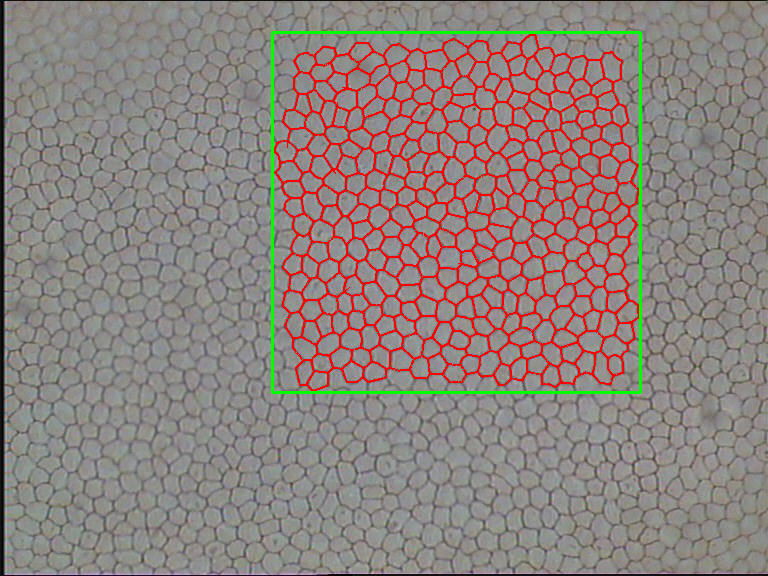
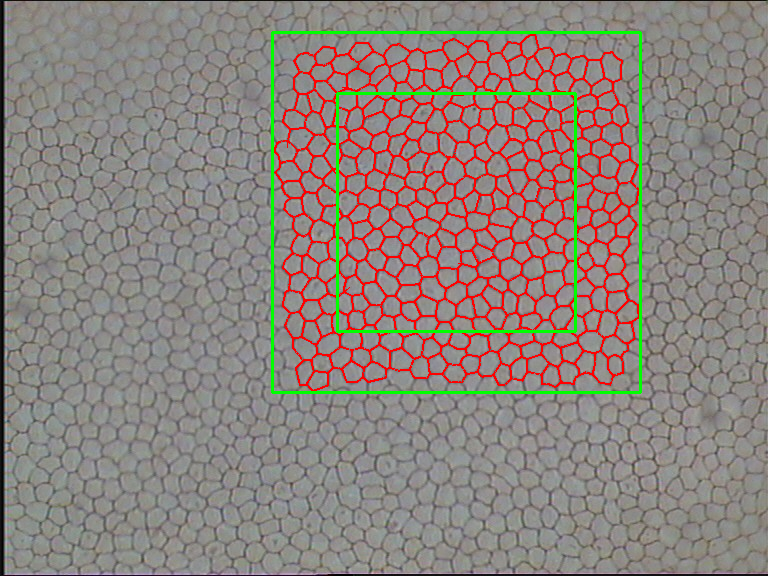
network implemented

Changed region(s): [[0.4375, 0.1562, 0.75, 0.5938]]

diff --git a/image_layer.py b/image_layer.py
@@ -1,54 +1,238 @@
 import cv2
 import os
 import numpy as np
-
-filepath = "C:\\Users\\seoir\\git\\replicating_old_papers\\cell_data"
-
-n = 5
-
-file_orig = filepath+"\\Original\\"+str(n)+".jpg"
-label = filepath + "\\Manual\\"+str(n)+"s.jpg"
-#print(os.listdir(filepath))
-
-img = cv2.imread(file_orig)
-img_label = cv2.imread(label,cv2.IMREAD_GRAYSCALE)
-
-# Draw in the labels
-# note that the label are where it is white (255), but there is some noise
-# where the mask is value 1, should be removed prior to training
-img[img_label == 255] = (0,0,255)
-window_name = 'demo'
+from torch import nn
+import torch
+from matplotlib import pyplot as plt
+from tqdm import tqdm
 
 
-# Find the outer extents
-height, width = img_label.shape
-min_x, min_y = width, height
-max_x = max_y = 0
+def extract_two_sub_images(filepath : str, image_number : int, display_images : bool, n_image : int, n_label : int):
+    """extracts two subimages from the given image number. Returns both the label and the image
 
-cnts, _ = cv2.findContours(img_label, cv2.RETR_TREE, cv2.CHAIN_APPROX_NONE)
-for cnt in cnts:
-    peri = cv2.arcLength(cnt, True)
-    approx = cv2.approxPolyDP(cnt, 0.02*peri, True)
-    x, y, w, h = cv2.boundingRect(approx)
-    min_x = min(min_x,x)
-    min_y = min(min_y,y)
-    max_x = max(max_x,x+w)
-    max_y = max(max_y,y+h)
+    Parameters
+    ----------
+    filepath : str
+        the location of the folders containing the masks and the images
+    image_number : int
+        the number (1-30) of the file to be opened
+    display_images : bool
+        whether to print the images and their associated large image
+    Returns
+    -------
+    (img_1, label_1), (img_2, label_2) : all numpy.array
+        The image (array format) and manual label (array format) in grayscale for two sub images
+        the label arrays have a size of 67x67. The input arrays are 97x97 as the network structure
+        loses the outer pixel dimensions  
+    img_g : numpy.array
+        The original image in grayscale, with the chosen rechtangles marked
+    """
 
-cv2.rectangle(img, (min_x, min_y), (max_x, max_y), (0, 255, 0), 2)
+    file_orig = filepath+"\\Original\\"+str(image_number)+".jpg"
+    label = filepath + "\\Manual\\"+str(image_number)+"s.jpg"
+    #print(os.listdir(filepath))
+
+    # note - we will train on a gray image!
+    img = cv2.imread(file_orig)
+    img_g = cv2.imread(file_orig,cv2.IMREAD_GRAYSCALE)
+    img_label = cv2.imread(label,cv2.IMREAD_GRAYSCALE)
+
+    # Draw in the labels
+    # note that the label are where it is white (255), but there is some noise
+    # where the mask is value 1, should be removed prior to training
+    #img[img_label == 255] = (0,0,255)
+    window_name = 'demo'
 
 
+    # Find the outer extents
+    height, width = img_label.shape
+    min_x, min_y = width, height
+    max_x = max_y = 0
+
+    cnts, _ = cv2.findContours(img_label, cv2.RETR_TREE, cv2.CHAIN_APPROX_NONE)
+    for cnt in cnts:
+        peri = cv2.arcLength(cnt, True)
+        approx = cv2.approxPolyDP(cnt, 0.02*peri, True)
+        x, y, w, h = cv2.boundingRect(approx)
+        min_x = min(min_x,x)
+        min_y = min(min_y,y)
+        max_x = max(max_x,x+w)
+        max_y = max(max_y,y+h)
+
+    cv2.rectangle(img, (min_x, min_y), (max_x, max_y), (0, 255, 0), 2)
+
+    # paper uses 239x239px images cropped to 67x67. However, the input is 97x97
+    n_sub = n_image
+    n_lab = n_label
+
+    offset = 55 #px from image edge
+
+    mid1 = (min_x + offset, (min_y+max_y)//2)
+    mid2 = (max_x - offset, (min_y+max_y)//2)
+    # we take two sub images at opposite sides of the labelled area    
+    # we copy here to avoid redrawing a rectangle on the top
+    img_cropped_1 = img_g[(mid1[1] - (n_sub-1)//2) : (mid1[1] + (n_sub-1)//2)+1, (mid1[0] - (n_sub-1)//2) : (mid1[0] + (n_sub-1)//2)+1].copy()
+    img_cropped_2 = img_g[(mid2[1] - (n_sub-1)//2) : (mid2[1] + (n_sub-1)//2)+1, (mid2[0] - (n_sub-1)//2) : (mid2[0] + (n_sub-1)//2)+1].copy()
+
+    label_cropped_1 = img_label[(mid1[1] - (n_lab-1)//2) : (mid1[1] + (n_lab-1)//2)+1, (mid1[0] - (n_lab-1)//2) : (mid1[0] + (n_lab-1)//2)+1].copy()
+    label_cropped_2 = img_label[(mid2[1] - (n_lab-1)//2) : (mid2[1] + (n_lab-1)//2)+1, (mid2[0] - (n_lab-1)//2) : (mid2[0] + (n_lab-1)//2)+1].copy()
+
+    # so we don't get squares on our output image
+    img_g_out = img_g.copy()
+    #draw the rectangles marking the image on the grayscale one
+    cv2.rectangle(img_g,((mid1[0] - (n_lab-1)//2) , (mid1[1] - (n_lab-1)//2) ) ,((mid1[0] + (n_lab-1)//2)+1, (mid1[1] + (n_lab-1)//2)+1),(0, 255, 0), 2)
+    #cv2.rectangle(img_label,((mid1[0] - (n_lab-1)//2) , (mid1[1] - (n_lab-1)//2) ) ,((mid1[0] + (n_lab-1)//2)+1, (mid1[1] + (n_lab-1)//2)+1),(0, 255, 0), 2)
+    cv2.rectangle(img_g,((mid2[0] - (n_lab-1)//2) , (mid2[1] - (n_lab-1)//2) ) ,((mid2[0] + (n_lab-1)//2)+1, (mid2[1] + (n_lab-1)//2)+1),(0, 255, 0), 2)
+    #cv2.rectangle(img_label,((mid2[0] - (n_lab-1)//2) , (mid2[1] - (n_lab-1)//2) ) ,((mid2[0] + (n_lab-1)//2)+1, (mid2[1] + (n_lab-1)//2)+1),(0, 255, 0), 2)
+    cv2.rectangle(img_g,(min_x,min_y), (max_x, max_y),(0, 255, 0), 2)
+    img_g[img_label == 255] = 255
+    if display_images:
+        cv2.imshow("sub_image_1",img_cropped_1)
+        cv2.imshow("sub_label_1",label_cropped_1)
+        cv2.imshow("sub_image_2",img_cropped_2)
+        cv2.imshow("sub_label_2",label_cropped_2)
+        cv2.imshow("img",img_g)
+        #cv2.imshow("label",img_label)
+        #cv2.imwrite("images\\overlay_two_crop" + str(n) + ".png",img_g)        
+        cv2.waitKey(0)
+
+    return (img_cropped_1, label_cropped_1), (img_cropped_2, label_cropped_2), img_g_out
+
+def normalise_image(img):
+    """normalise the input image to the range [-1:1]"""
+    img_out = (img - 128*np.ones(img.shape))*(1/128.0)
+    return img_out
+def normalise_label(img):
+    """normalise the label to all zeros or ones"""
+    img_out = np.zeros(img.shape)
+    img_out[img == 255] = 1
+    return img_out
 
 
+class Network(nn.Module):
 
-cv2.imshow(window_name,img)
+    def __init__(self):
+        super(Network, self).__init__()
+        #bp_sigm = self.bipolar_sigmoid
+        self.cnn_1 = nn.Conv2d(1,3,11)
+        self.cnn_2 = nn.Conv2d(3,2,11)
+        self.cnn_3 = nn.Conv2d(2,1,11)
+
+    def bipolar_sigmoid(self,x):
+        return torch.sigmoid(x)*2 - 1
+    
+
+    def forward(self, img):
+        img = self.cnn_1(img)
+        img = self.bipolar_sigmoid(img)
+        img = self.cnn_2(img)
+        img = self.bipolar_sigmoid(img)
+        img = self.cnn_3(img)
+        img = self.bipolar_sigmoid(img)
+        return img
 
 
+def weights_init_uniform(m):
+    classname = m.__class__.__name__
+    # for every Linear layer in a model..
+    if classname.find('Conv2d') != -1:
+        # apply a uniform distribution to the weights and a bias=0
+        # -0.3 -> 0.3 comes from the paper
+        m.weight.data.uniform_(-0.3, 0.3)
+        m.bias.data.fill_(0)
 
-cv2.waitKey(0)
+def image_to_tensor(img : np.array):
+    """ takes the loaded image slice and exports a tensor. This includes adding a "1" channel as expected by the cnn
+    """
+    img = torch.tensor(normalise_image(img), dtype = torch.float32)
+    return torch.unsqueeze(img,0)
+def tensor_to_array(tensor):
+    return torch.squeeze(tensor).detach().numpy()
 
-cv2.imwrite("images\\overlay_" + str(n) + ".png",img)
+def main():
+    filepath = "C:\\Users\\seoir\\git\\replicating_old_papers\\cell_data"
 
-cv2.destroyAllWindows()
+    # Generate the test and train images
+    n_1 = 26
+    n_2 = 25
+
+    # we take the train and evaluate images from different images to give more general training 
+    (tr_1, tr_lb_1), (te_2,te_lb_2), img = extract_two_sub_images(filepath, n_1, False, 97, 67)
+    (te_1, te_lb_1), (tr_2,tr_lb_2), _ = extract_two_sub_images(filepath, n_2, False, 97, 67)
+
+    # turn all images to tensors for training
+    tr_1 = image_to_tensor(tr_1)
+    tr_2 = image_to_tensor(tr_2)
+    te_1 = image_to_tensor(te_1)
+    te_2 = image_to_tensor(te_2)
+    
+    tr_lb_1 = image_to_tensor(tr_lb_1)
+    tr_lb_2 = image_to_tensor(tr_lb_2)
+    te_lb_1 = image_to_tensor(te_lb_1)
+    te_lb_2 = image_to_tensor(te_lb_2)
+
+    # Combining the data into batches:
+    train_data = torch.stack([tr_1,tr_2])
+    train_labels = torch.stack([tr_lb_1,tr_lb_2])
+
+    eval_data = torch.stack([te_1,te_2])
+    eval_labels = torch.stack([te_lb_1,te_lb_2])
 
 
+    # From the paper
+    learningRate = 0.05
+    momentum = 0.9
+
+    model = Network()
+    #this applies the function to each layer of the model
+    model.apply(weights_init_uniform)
+
+    loss_function = nn.MSELoss()
+    # probably change this later
+    optimiser = torch.optim.Adam(model.parameters(), lr=learningRate, betas = (momentum, 0.999))
+
+    #print(model(tr_1))
+
+    iterations = 600
+    iter_numbers = []
+    losses = []
+    losses_eval = []
+    iter_numbers_eval = []
+    model.train()
+
+    
+    for i in tqdm(range(iterations)):
+        iter_numbers.append(i)
+        optimiser.zero_grad()
+        pred = model(train_data)
+        loss = loss_function(pred, train_labels)
+        loss.backward()
+        optimiser.step()
+        losses.append(loss.item())
+        if (i+1)%10 == 0:
+            model.eval()
+            iter_numbers_eval.append(i)
+            losses_eval.append(loss_function(model(eval_data),eval_labels).item())
+            model.train()
+
+    plt.figure()
+    plt.plot(iter_numbers,losses, label = 'Train')
+    plt.plot(iter_numbers_eval,losses_eval, label = 'Evaluation')
+    plt.legend()
+    plt.xlabel('Iteration Number')
+    plt.ylabel('MSE Loss')
+    plt.show()
+    #im_out = model_tr()
+    model.eval()
+    #print(tensor_to_array(model(tr_1)))
+    cv2.imshow("Train", torch.squeeze(model(tr_1)).detach().numpy())
+    cv2.imshow("Eval", torch.squeeze(model(te_1)).detach().numpy())
+    cv2.waitKey(0)
+
+    img = image_to_tensor(img)
+    cv2.imshow("Full Image", tensor_to_array(model(img)))
+    cv2.waitKey(0)
+
+
+if __name__ == "__main__":
+    main()
